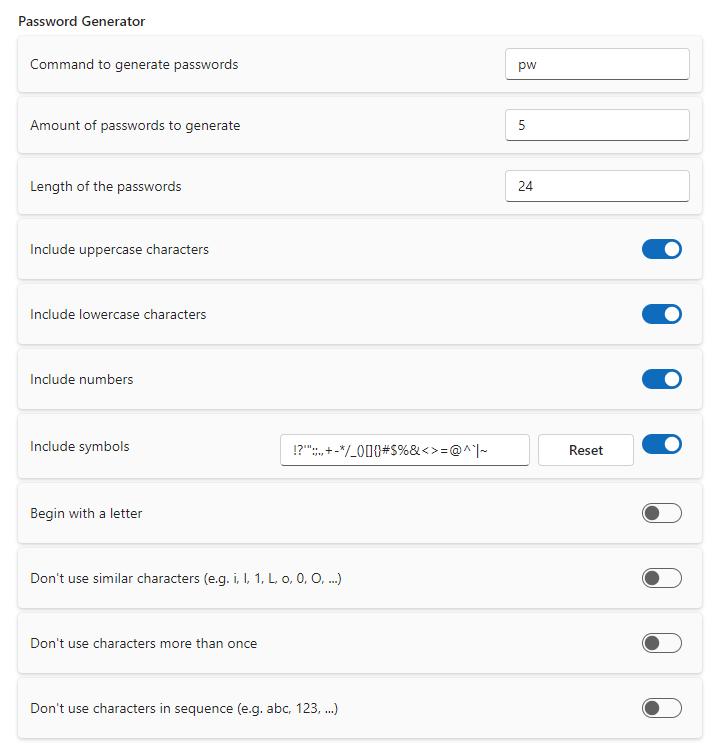
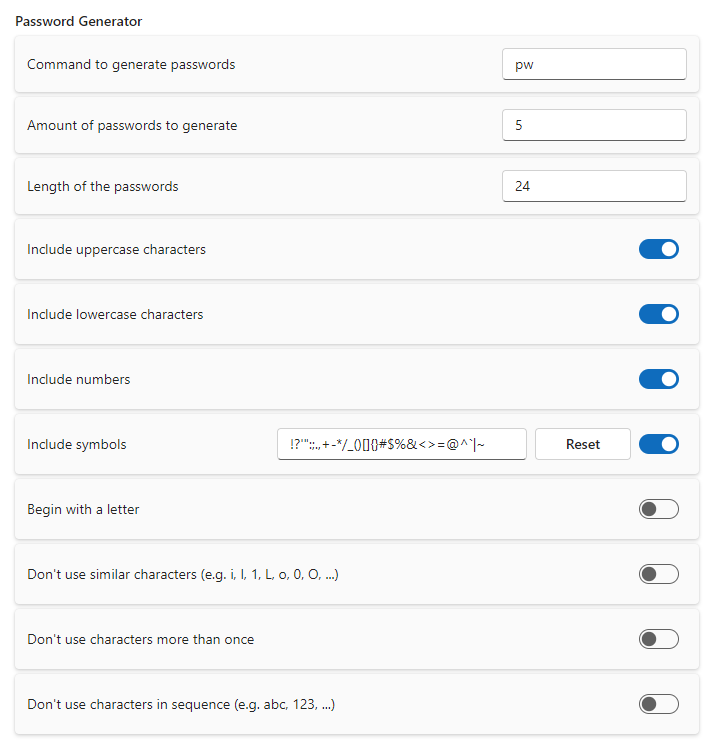
Fixed layout issue

diff --git a/src/renderer/Extensions/PasswordGenerator/PasswordGeneratorSettings.tsx b/src/renderer/Extensions/PasswordGenerator/PasswordGeneratorSettings.tsx
@@ -132,7 +132,15 @@ export const PasswordGeneratorSettings = () => {
                 <Setting
                     label={t("includeSymbols")}
                     control={
-                        <div>
+                        <div
+                            style={{
+                                flexGrow: 1,
+                                display: "flex",
+                                flexDirection: "row",
+                                justifyContent: "flex-end",
+                                alignItems: "center",
+                            }}
+                        >
                             <Input
                                 style={{ width: 250 }}
                                 value={`${symbols}`}
